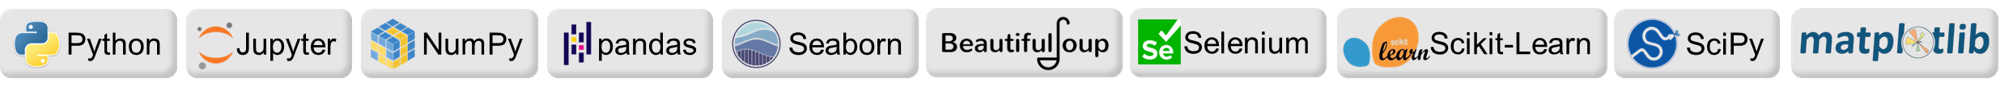
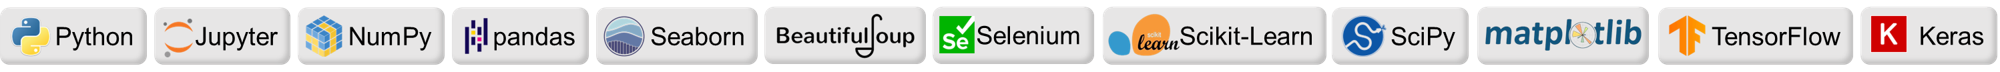
updated

Changed region(s): [[0.0, 0.1111, 1.0, 0.9167]]

diff --git a/portfolio/crossfit/index.html b/portfolio/crossfit/index.html
@@ -159,7 +159,7 @@
         <div class="post">
 
             <header class="post-header">
-                <h1 class="post-title">Predicting CrossFit Games Ranking from Benchmark Workout Data with Random Forest </h1>
+                <h1 class="post-title">Predicting CrossFit Games Ranking from Benchmark Workout Data with Random Forest and Neural Networks </h1>
                 <p class="post-description"></p>
             </header>
             Methods: random forest, principal component analysis, webscraping, neural networks
